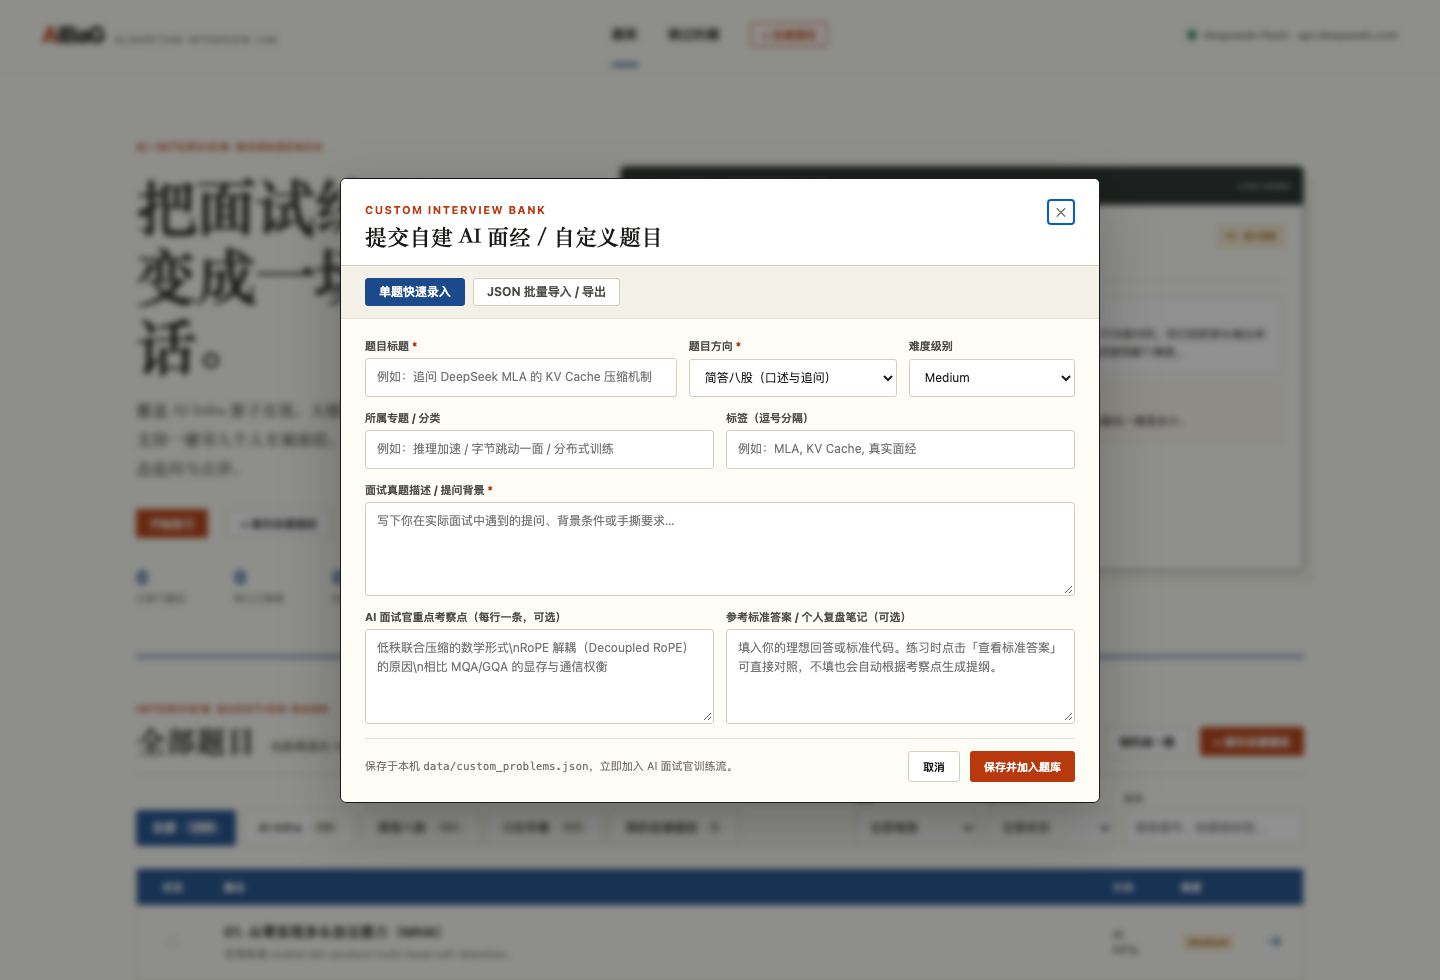
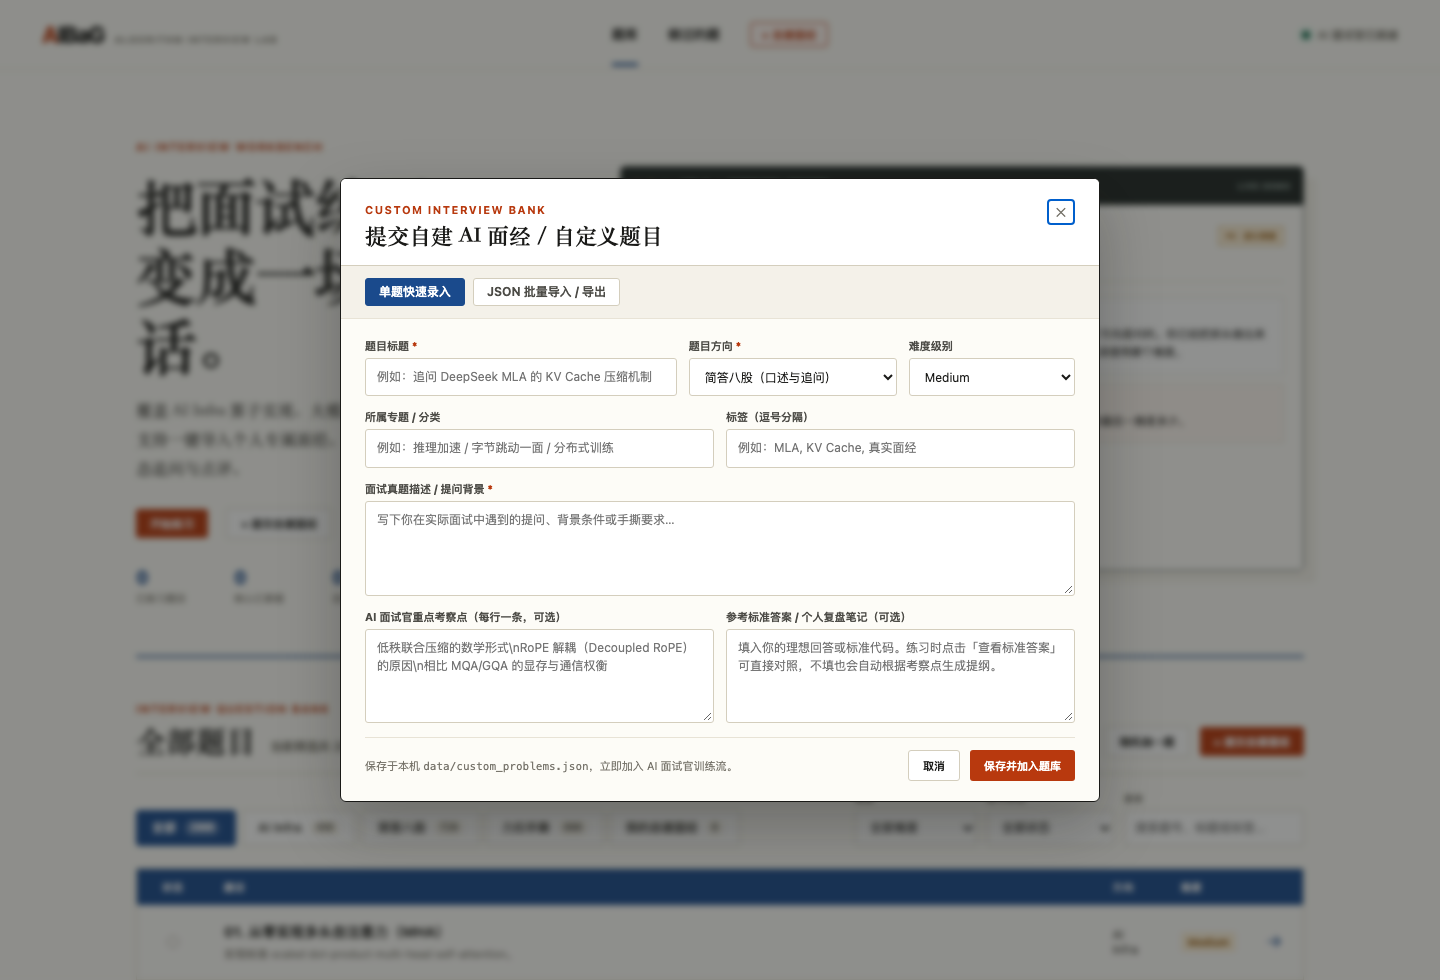
feat: improve AI readiness UX and accessibility

diff --git a/problem.js b/problem.js
@@ -4,6 +4,7 @@ const state = {
   latestReview: null,
   conversation: [],
   busy: false,
+  aiAvailable: true,
   progress: JSON.parse(localStorage.getItem("aibag_code_progress_v1") || "{}"),
   drafts: JSON.parse(localStorage.getItem("aibag_code_drafts_v1") || "{}"),
 };
@@ -247,14 +248,17 @@ function renderProblem(problem) {
   (problem.sources || []).forEach((source) => {
     const card = document.createElement("div");
     card.className = "source-card";
-    const link = document.createElement("a");
-    link.href = source.url;
-    link.target = "_blank";
-    link.rel = "noreferrer";
-    link.textContent = source.title;
+    const isExternalSource = /^https?:\/\//i.test(source.url || "");
+    const sourceTitle = document.createElement(isExternalSource ? "a" : "strong");
+    sourceTitle.textContent = source.title;
+    if (isExternalSource) {
+      sourceTitle.href = source.url;
+      sourceTitle.target = "_blank";
+      sourceTitle.rel = "noreferrer";
+    }
     const note = document.createElement("p");
     note.textContent = `${source.license} · ${source.note}`;
-    card.append(link, note);
+    card.append(sourceTitle, note);
     elements.sources.appendChild(card);
   });
 
@@ -392,12 +396,41 @@ function renderProficiency(pe) {
 
 function setBusy(busy) {
   state.busy = busy;
-  elements.submit.disabled = busy;
-  elements.sendCoach.disabled = busy;
+  const aiDisabled = !state.aiAvailable;
+  elements.submit.disabled = busy || aiDisabled;
+  elements.sendCoach.disabled = busy || aiDisabled;
+  elements.coachInput.disabled = busy || aiDisabled;
   elements.showAnswer.disabled = busy;
   elements.quickActions.querySelectorAll("button").forEach((button) => {
-    button.disabled = busy;
+    button.disabled = busy || aiDisabled;
   });
+}
+
+function configureAIAvailability(config) {
+  state.aiAvailable = config.ai_available ?? config.has_api_key;
+  elements.apiStatus.textContent = state.aiAvailable
+    ? "AI 面试官已就绪"
+    : "标准答案可用 · AI 点评未配置";
+  elements.apiStatus.title = state.aiAvailable
+    ? "可以使用 AI 点评与追问"
+    : "仍可查看标准答案并使用离线自评";
+  elements.apiDot.className = state.aiAvailable ? "status-dot ok" : "status-dot warn";
+
+  const unavailableHint = "请先在 .env 中配置 AI 服务；标准答案与自评功能仍可正常使用。";
+  elements.submit.title = state.aiAvailable ? "" : unavailableHint;
+  elements.sendCoach.title = state.aiAvailable ? "" : unavailableHint;
+  elements.coachInput.title = state.aiAvailable ? "" : unavailableHint;
+  elements.quickActions.querySelectorAll("button").forEach((button) => {
+    button.title = state.aiAvailable ? "" : unavailableHint;
+  });
+  if (!state.aiAvailable) {
+    elements.submitNote.textContent = "AI 点评尚未配置；你仍可查看标准答案，并记录自评掌握度。";
+    if (elements.coachLog.querySelector(".coach-empty")) {
+      elements.coachEmpty.textContent =
+        "AI 追问尚未配置。你可以先完成作答，再通过标准答案与自评掌握度进行离线训练。";
+    }
+  }
+  setBusy(false);
 }
 
 async function toggleReferenceAnswer() {
@@ -541,11 +574,8 @@ async function initialize() {
       request("/api/problems").catch(() => []),
     ]);
     state.catalog = Array.isArray(catalog) ? catalog : [];
-    const provider = new URL(config.base_url).host;
-    elements.apiStatus.textContent = `${config.model} · ${provider}`;
-    elements.apiDot.className = config.has_api_key ? "status-dot ok" : "status-dot warn";
-    if (!config.has_api_key) elements.apiStatus.textContent += " · key missing";
     renderProblem(problem);
+    configureAIAvailability(config);
   } catch (error) {
     elements.apiDot.className = "status-dot error";
     elements.apiStatus.textContent = "本地后端不可用";

diff --git a/app.js b/app.js
@@ -546,10 +546,14 @@ async function initialize() {
     state.problems = problems;
     restoreFilterState();
     updateOverviewStats();
-    const provider = new URL(config.base_url).host;
-    elements.apiStatus.textContent = `${config.model} · ${provider}`;
-    elements.apiDot.className = config.has_api_key ? "status-dot ok" : "status-dot warn";
-    if (!config.has_api_key) elements.apiStatus.textContent += " · key missing";
+    const aiAvailable = config.ai_available ?? config.has_api_key;
+    elements.apiStatus.textContent = aiAvailable
+      ? "AI 面试官已就绪"
+      : "标准答案可用 · AI 点评未配置";
+    elements.apiStatus.title = aiAvailable
+      ? "可以使用 AI 点评与追问"
+      : "仍可查看标准答案并使用离线自评";
+    elements.apiDot.className = aiAvailable ? "status-dot ok" : "status-dot warn";
     renderProblems();
     const params = new URLSearchParams(window.location.search);
     const editCustomId = params.get("edit_custom");

diff --git a/completed.js b/completed.js
@@ -126,9 +126,14 @@ async function initialize() {
   try {
     const [problems, config] = await Promise.all([request("/api/problems"), request("/api/config")]);
     state.problems = problems;
-    const provider = new URL(config.base_url).host;
-    elements.apiStatus.textContent = `${config.model} · ${provider}`;
-    elements.apiDot.className = config.has_api_key ? "status-dot ok" : "status-dot warn";
+    const aiAvailable = config.ai_available ?? config.has_api_key;
+    elements.apiStatus.textContent = aiAvailable
+      ? "AI 面试官已就绪"
+      : "标准答案可用 · AI 点评未配置";
+    elements.apiStatus.title = aiAvailable
+      ? "可以使用 AI 点评与追问"
+      : "练习记录与离线训练不受影响";
+    elements.apiDot.className = aiAvailable ? "status-dot ok" : "status-dot warn";
     render();
   } catch (error) {
     elements.apiDot.className = "status-dot error";

diff --git a/style.css b/style.css
@@ -171,7 +171,7 @@ button { cursor: pointer; }
 .tag { padding: 5px 8px; border: 1px solid var(--border); border-radius: 3px; color: var(--rust); background: var(--paper-code); font: 600 10px/1 var(--mono); }
 .training-note { color: var(--ink-soft); line-height: 1.7; }
 .source-card { margin-top: 10px; padding: 12px 14px; border: 1px solid var(--border-soft); background: var(--paper-soft); }
-.source-card a { color: var(--blue); font-weight: 700; }
+.source-card a, .source-card strong { color: var(--blue); font-weight: 700; }
 .source-card p { margin: 6px 0 0; color: var(--muted); font: 11px/1.55 var(--sans); }
 
 .coding-panel { min-width: 0; height: 100%; min-height: 0; overflow-y: auto; background: #f1eee5; }

diff --git a/index.html b/index.html
@@ -18,8 +18,8 @@
         <a href="/completed.html">做过的题</a>
         <button id="nav-open-custom" class="nav-action-btn" type="button">+ 自建面经</button>
       </nav>
-      <div class="api-badge">
-        <span id="api-dot" class="status-dot"></span>
+      <div class="api-badge" role="status" aria-live="polite" aria-atomic="true">
+        <span id="api-dot" class="status-dot" aria-hidden="true"></span>
         <span id="api-status">连接本地后端…</span>
       </div>
     </header>

diff --git a/problem.html b/problem.html
@@ -19,8 +19,8 @@
           <a href="/completed.html">做过的题</a>
           <a class="nav-action-link" href="/?custom=1">+ 自建面经</a>
         </nav>
-        <div class="api-badge">
-          <span id="api-dot" class="status-dot"></span>
+        <div class="api-badge" role="status" aria-live="polite" aria-atomic="true">
+          <span id="api-dot" class="status-dot" aria-hidden="true"></span>
           <span id="api-status">连接本地后端…</span>
         </div>
       </header>

diff --git a/completed.html b/completed.html
@@ -18,8 +18,8 @@
         <a class="active" href="/completed.html">做过的题</a>
         <a class="nav-action-link" href="/?custom=1">+ 自建面经</a>
       </nav>
-      <div class="api-badge">
-        <span id="api-dot" class="status-dot"></span>
+      <div class="api-badge" role="status" aria-live="polite" aria-atomic="true">
+        <span id="api-dot" class="status-dot" aria-hidden="true"></span>
         <span id="api-status">连接本地后端…</span>
       </div>
     </header>

diff --git a/tests/test_server.py b/tests/test_server.py
@@ -40,7 +40,7 @@ class ProblemBankTests(unittest.TestCase):
             self.assertGreaterEqual(len(result["answer"]), 20, problem["id"])
             self.assertNotEqual(result["source"], "deepseek-generated")
 
-    def test_catalog_has_one_thousand_problems(self):
+    def test_catalog_has_two_thousand_problems(self):
         self.assertEqual(len(server.PROBLEMS), 2_000)
 
     def test_problem_ids_are_unique(self):
@@ -193,6 +193,24 @@ class ReviewNormalizationTests(unittest.TestCase):
 
 
 class ModelFlowTests(unittest.TestCase):
+    def test_ai_availability_accepts_local_provider_without_key(self):
+        with patch.dict(
+            server.os.environ,
+            {"AIBAG_BASE_URL": "http://127.0.0.1:11434/v1", "AIBAG_API_KEY": ""},
+            clear=False,
+        ), patch("server.resolve_api_key", return_value=""):
+            self.assertTrue(server.ai_is_available())
+            self.assertTrue(server.api_config()["ai_available"])
+
+    def test_ai_availability_requires_key_for_remote_provider(self):
+        with patch.dict(
+            server.os.environ,
+            {"AIBAG_BASE_URL": "https://api.deepseek.com", "AIBAG_API_KEY": ""},
+            clear=False,
+        ), patch("server.resolve_api_key", return_value=""):
+            self.assertFalse(server.ai_is_available())
+            self.assertFalse(server.api_config()["ai_available"])
+
     @patch("server.call_llm")
     def test_judge_flow_returns_normalized_review(self, call_llm):
         call_llm.return_value = {

diff --git a/server.py b/server.py
@@ -545,11 +545,20 @@ def resolve_api_key() -> str:
     return match.group(1).strip() if match else ""
 
 
+def ai_is_available() -> bool:
+    """Return whether the configured provider can serve AI review requests."""
+    base_url = os.getenv("AIBAG_BASE_URL", "https://api.deepseek.com").rstrip("/")
+    hostname = urlsplit(base_url).hostname or ""
+    is_local_provider = hostname in {"127.0.0.1", "localhost", "::1"}
+    return bool(resolve_api_key()) or is_local_provider
+
+
 def api_config() -> dict[str, Any]:
     return {
         "model": os.getenv("AIBAG_MODEL", "deepseek-flash"),
         "base_url": os.getenv("AIBAG_BASE_URL", "https://api.deepseek.com"),
         "has_api_key": bool(resolve_api_key()),
+        "ai_available": ai_is_available(),
     }
 
 

diff --git a/README.md b/README.md
@@ -74,15 +74,31 @@ git clone https://github.com/yuanxiang02/AIBaG.git && cd AIBaG
 
 项目仅依赖 **Python 3 标准库**，无需安装任何第三方 `pip` 或 `npm` 包。
 
-### 1. 配置模型 API Key
+### 1. 零配置启动基础训练
 
-首次使用时复制环境变量模板：
+```bash
+git clone https://github.com/yuanxiang02/AIBaG.git
+cd AIBaG
+./start.sh
+```
+
+启动后访问 <http://127.0.0.1:8787>。未配置模型服务时，完整题库、筛选与随机抽题、持久化标准答案、自评掌握度、自建面经以及本机练习档案均可正常使用。
+
+也可以直接运行本地服务：
+
+```bash
+python3 server.py
+```
+
+### 2. 按需启用 AI 面试官
+
+如需使用结构化 AI 点评、动态追问与对话式提示，再复制环境变量模板：
 
 ```bash
 cp .env.example .env
 ```
 
-编辑 `.env` 并填入兼容 OpenAI Chat Completions 接口的 API Key（默认支持 DeepSeek）：
+编辑 `.env`，填入兼容 OpenAI Chat Completions 接口的模型配置（默认支持 DeepSeek），然后重新启动服务：
 
 ```ini
 AIBAG_API_KEY=your_api_key_here
@@ -92,18 +108,6 @@ AIBAG_PORT=8787
 ```
 
 > **安全说明**：API Key 仅由本地后端从 `.env` 或私有凭据文件读取，绝不会通过前端接口暴露，也不会被 Git 跟踪。
-
-### 2. 一键启动服务
-
-```bash
-./start.sh
-```
-
-脚本会自动启动本地服务并打开浏览器访问 <http://127.0.0.1:8787>。你也可以直接运行：
-
-```bash
-python3 server.py
-```
 
 ---
 
